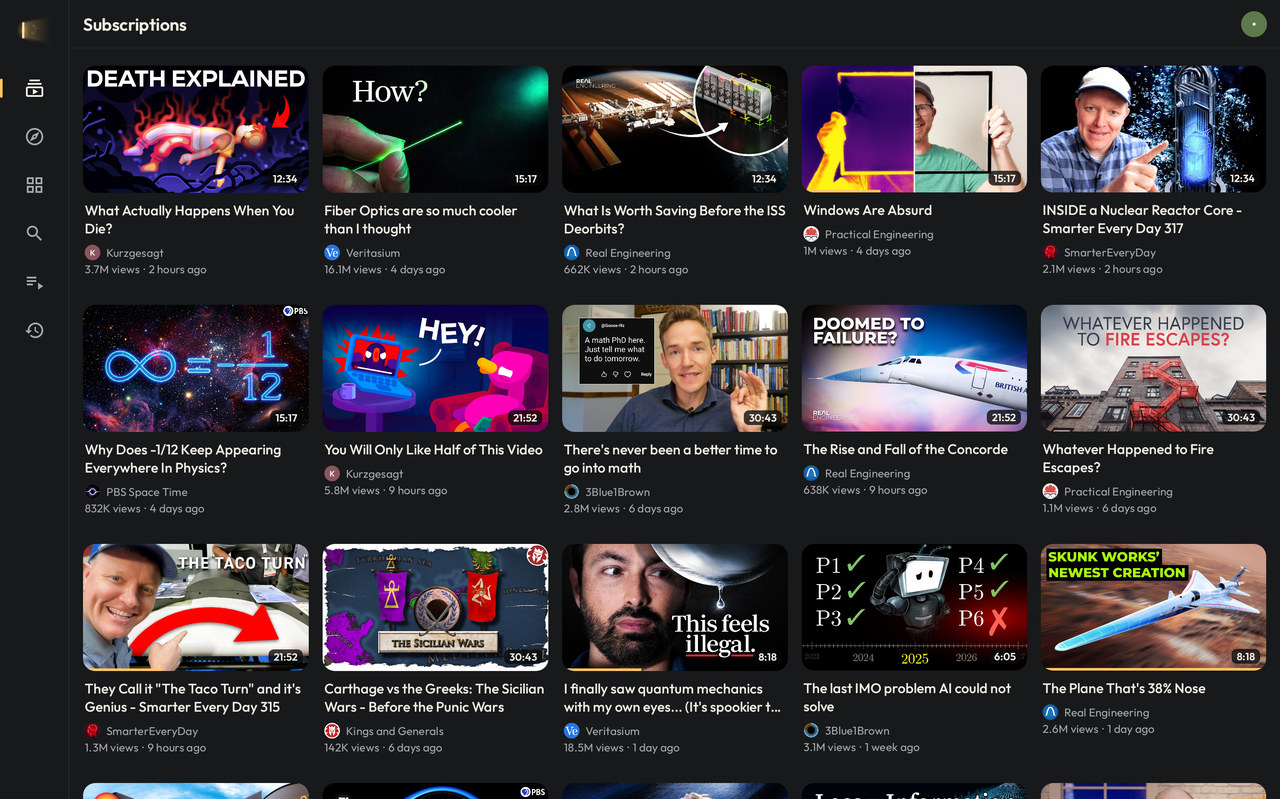
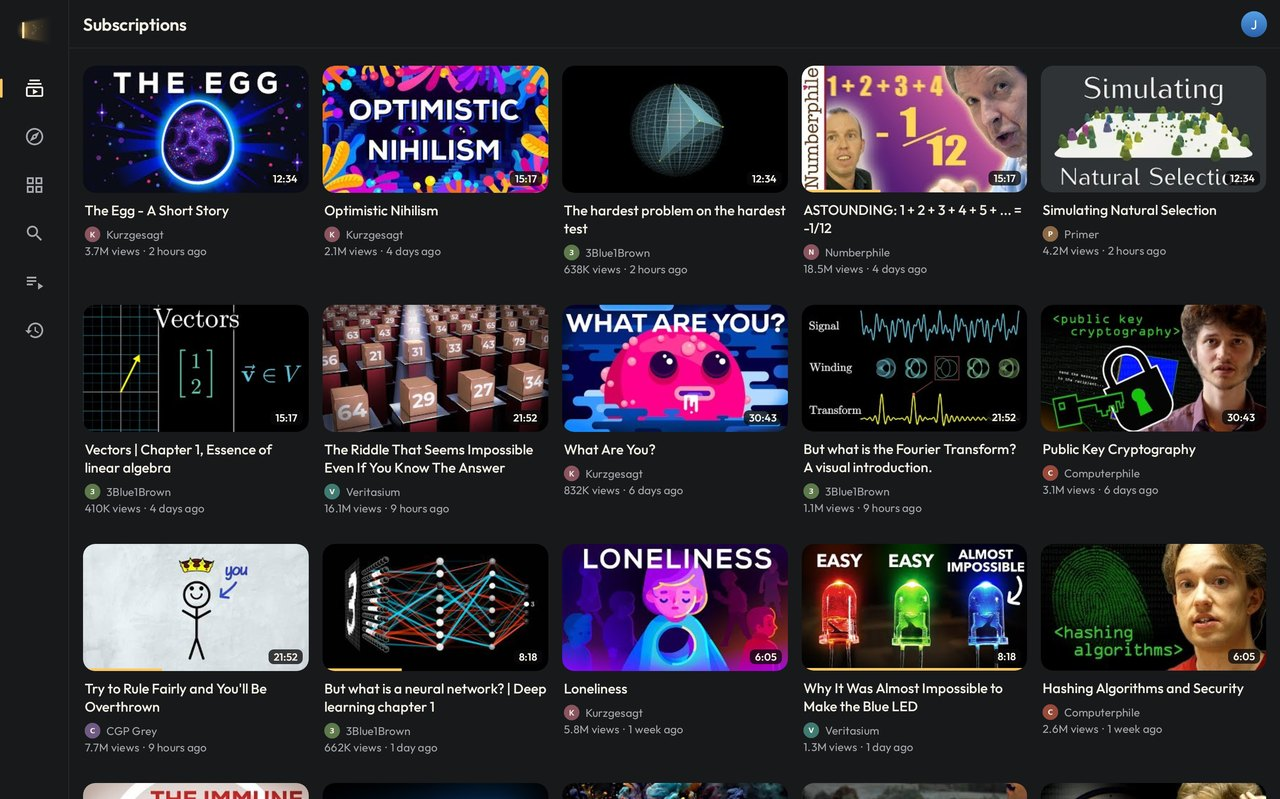
Fotos de tela da 1.0.7: fundo novo da TV e a foto da conta no alto
As fotos do README e do site agora mostram uma conta aberta (a foto de
quem está usando no alto, como o app fica quase sempre), o fundo quase
preto da TV e o grupo Users nos Ajustes. O menu da foto entra no README
e no site no lugar das Inscrições em português.

Claude-Session: https://claude.ai/code/session_01HWoe4DaxWzuhwysQ6Sb8qR

diff --git a/site/assets/i18n.js b/site/assets/i18n.js
@@ -162,7 +162,7 @@ window.BEAMTUBE_I18N = {
     "yours.users": "<strong>Um BeamTube para a casa toda.</strong> Cada pessoa entra com a própria conta do YouTube e tem os seus tópicos, canais bloqueados e histórico. A foto no alto troca de usuário, e o modo convidado mostra só Recomendados e Buscar, sem conta.",
     "yours.langs": "<strong>Inglês, português e espanhol.</strong> O BeamTube segue o idioma do aparelho, ou você escolhe um nos Ajustes.",
     "alt.teal": "A cor de destaque Verde-azulado no celular",
-    "alt.pt": "O BeamTube em português",
+    "alt.users": "O menu da foto, para trocar de usuário",
     "alt.plum": "A cor de destaque Ameixa na TV",
 
     "out.title": "O que não tem no BeamTube",
@@ -369,7 +369,7 @@ window.BEAMTUBE_I18N = {
     "yours.users": "<strong>Un BeamTube para toda la casa.</strong> Cada persona entra con su propia cuenta de YouTube y tiene sus temas, canales bloqueados e historial. La foto de arriba cambia de usuario, y el modo invitado muestra solo Recomendados y Buscar, sin cuenta.",
     "yours.langs": "<strong>Inglés, portugués y español.</strong> BeamTube sigue el idioma de tu dispositivo, o puedes elegir uno en Ajustes.",
     "alt.teal": "El color de realce Verde azulado en el teléfono",
-    "alt.pt": "BeamTube en portugués",
+    "alt.users": "El menú de la foto, para cambiar de usuario",
     "alt.plum": "El color de realce Ciruela en el televisor",
 
     "out.title": "Lo que no está en BeamTube",

diff --git a/site/index.html b/site/index.html
@@ -331,8 +331,8 @@
     <p class="langs" data-i18n="yours.users"><strong>One BeamTube for the whole house.</strong> Each person signs in with their own YouTube account and keeps their own topics, blocked channels and history. The photo at the top switches users, and a guest mode shows only Recommended and Search, with no account.</p>
     <p class="langs" data-i18n="yours.langs"><strong>English, Portuguese and Spanish.</strong> BeamTube follows your device’s language, or you can pick one in Settings.</p>
     <div class="gallery">
+      <figure class="screen phone" style="--ar:0.4615"><img src="assets/img/phone-users-menu.webp" width="540" height="1170" loading="lazy" alt="The photo menu, to switch users" data-i18n-alt="alt.users"></figure>
       <figure class="screen phone" style="--ar:0.4615"><img src="assets/img/phone-accent-teal.webp" width="540" height="1170" loading="lazy" alt="The Teal highlight color on a phone" data-i18n-alt="alt.teal"></figure>
-      <figure class="screen phone" style="--ar:0.4615"><img src="assets/img/phone-subscriptions-pt.webp" width="540" height="1170" loading="lazy" alt="BeamTube in Portuguese" data-i18n-alt="alt.pt"></figure>
       <figure class="screen tv" style="--ar:1.778"><img src="assets/img/tv-accent-plum.webp" width="1280" height="720" loading="lazy" alt="The Plum highlight color on a TV" data-i18n-alt="alt.plum"></figure>
     </div>
   </div>

diff --git a/app/src/test/java/ytslim/ui/ScreenShots.kt b/app/src/test/java/ytslim/ui/ScreenShots.kt
@@ -209,6 +209,12 @@ class ScreenShots {
         Look.tones = if (mode == android.content.res.Configuration.UI_MODE_TYPE_TELEVISION) Tones.TV else Tones.PHONE
     }
 
+    /** As fotos mostram uma conta aberta, com a foto dela no alto, como o app fica quase sempre. */
+    @Before
+    fun signedIn() {
+        openUser(0)
+    }
+
     /**
      * A cor de destaque e o tom do fundo ([Look]) e o layout da TV ([TvLayouts]) são globais: cada
      * foto termina no padrão.

diff --git a/README.md b/README.md
@@ -219,9 +219,9 @@ your devices. If you already follow the channel, its videos aren't repeated.
   in Settings > Language.
 
 <p align="center">
+  <img src="docs/screenshots/phone-users-menu.jpg" alt="The photo menu, to switch users" width="30%">
   <img src="docs/screenshots/phone-accent-teal.jpg" alt="The Teal highlight color" width="30%">
-  <img src="docs/screenshots/phone-subscriptions-pt.jpg" alt="BeamTube in Portuguese" width="30%">
-  <img src="docs/screenshots/phone-settings-pt.jpg" alt="Settings in Portuguese" width="30%">
+  <img src="docs/screenshots/phone-settings-pt.jpg" alt="Settings in Portuguese, with the users on top" width="30%">
 </p>
 <p align="center">
   <img src="docs/screenshots/tv-topics-es.jpg" alt="The topics screen in Spanish on TV" width="80%">
